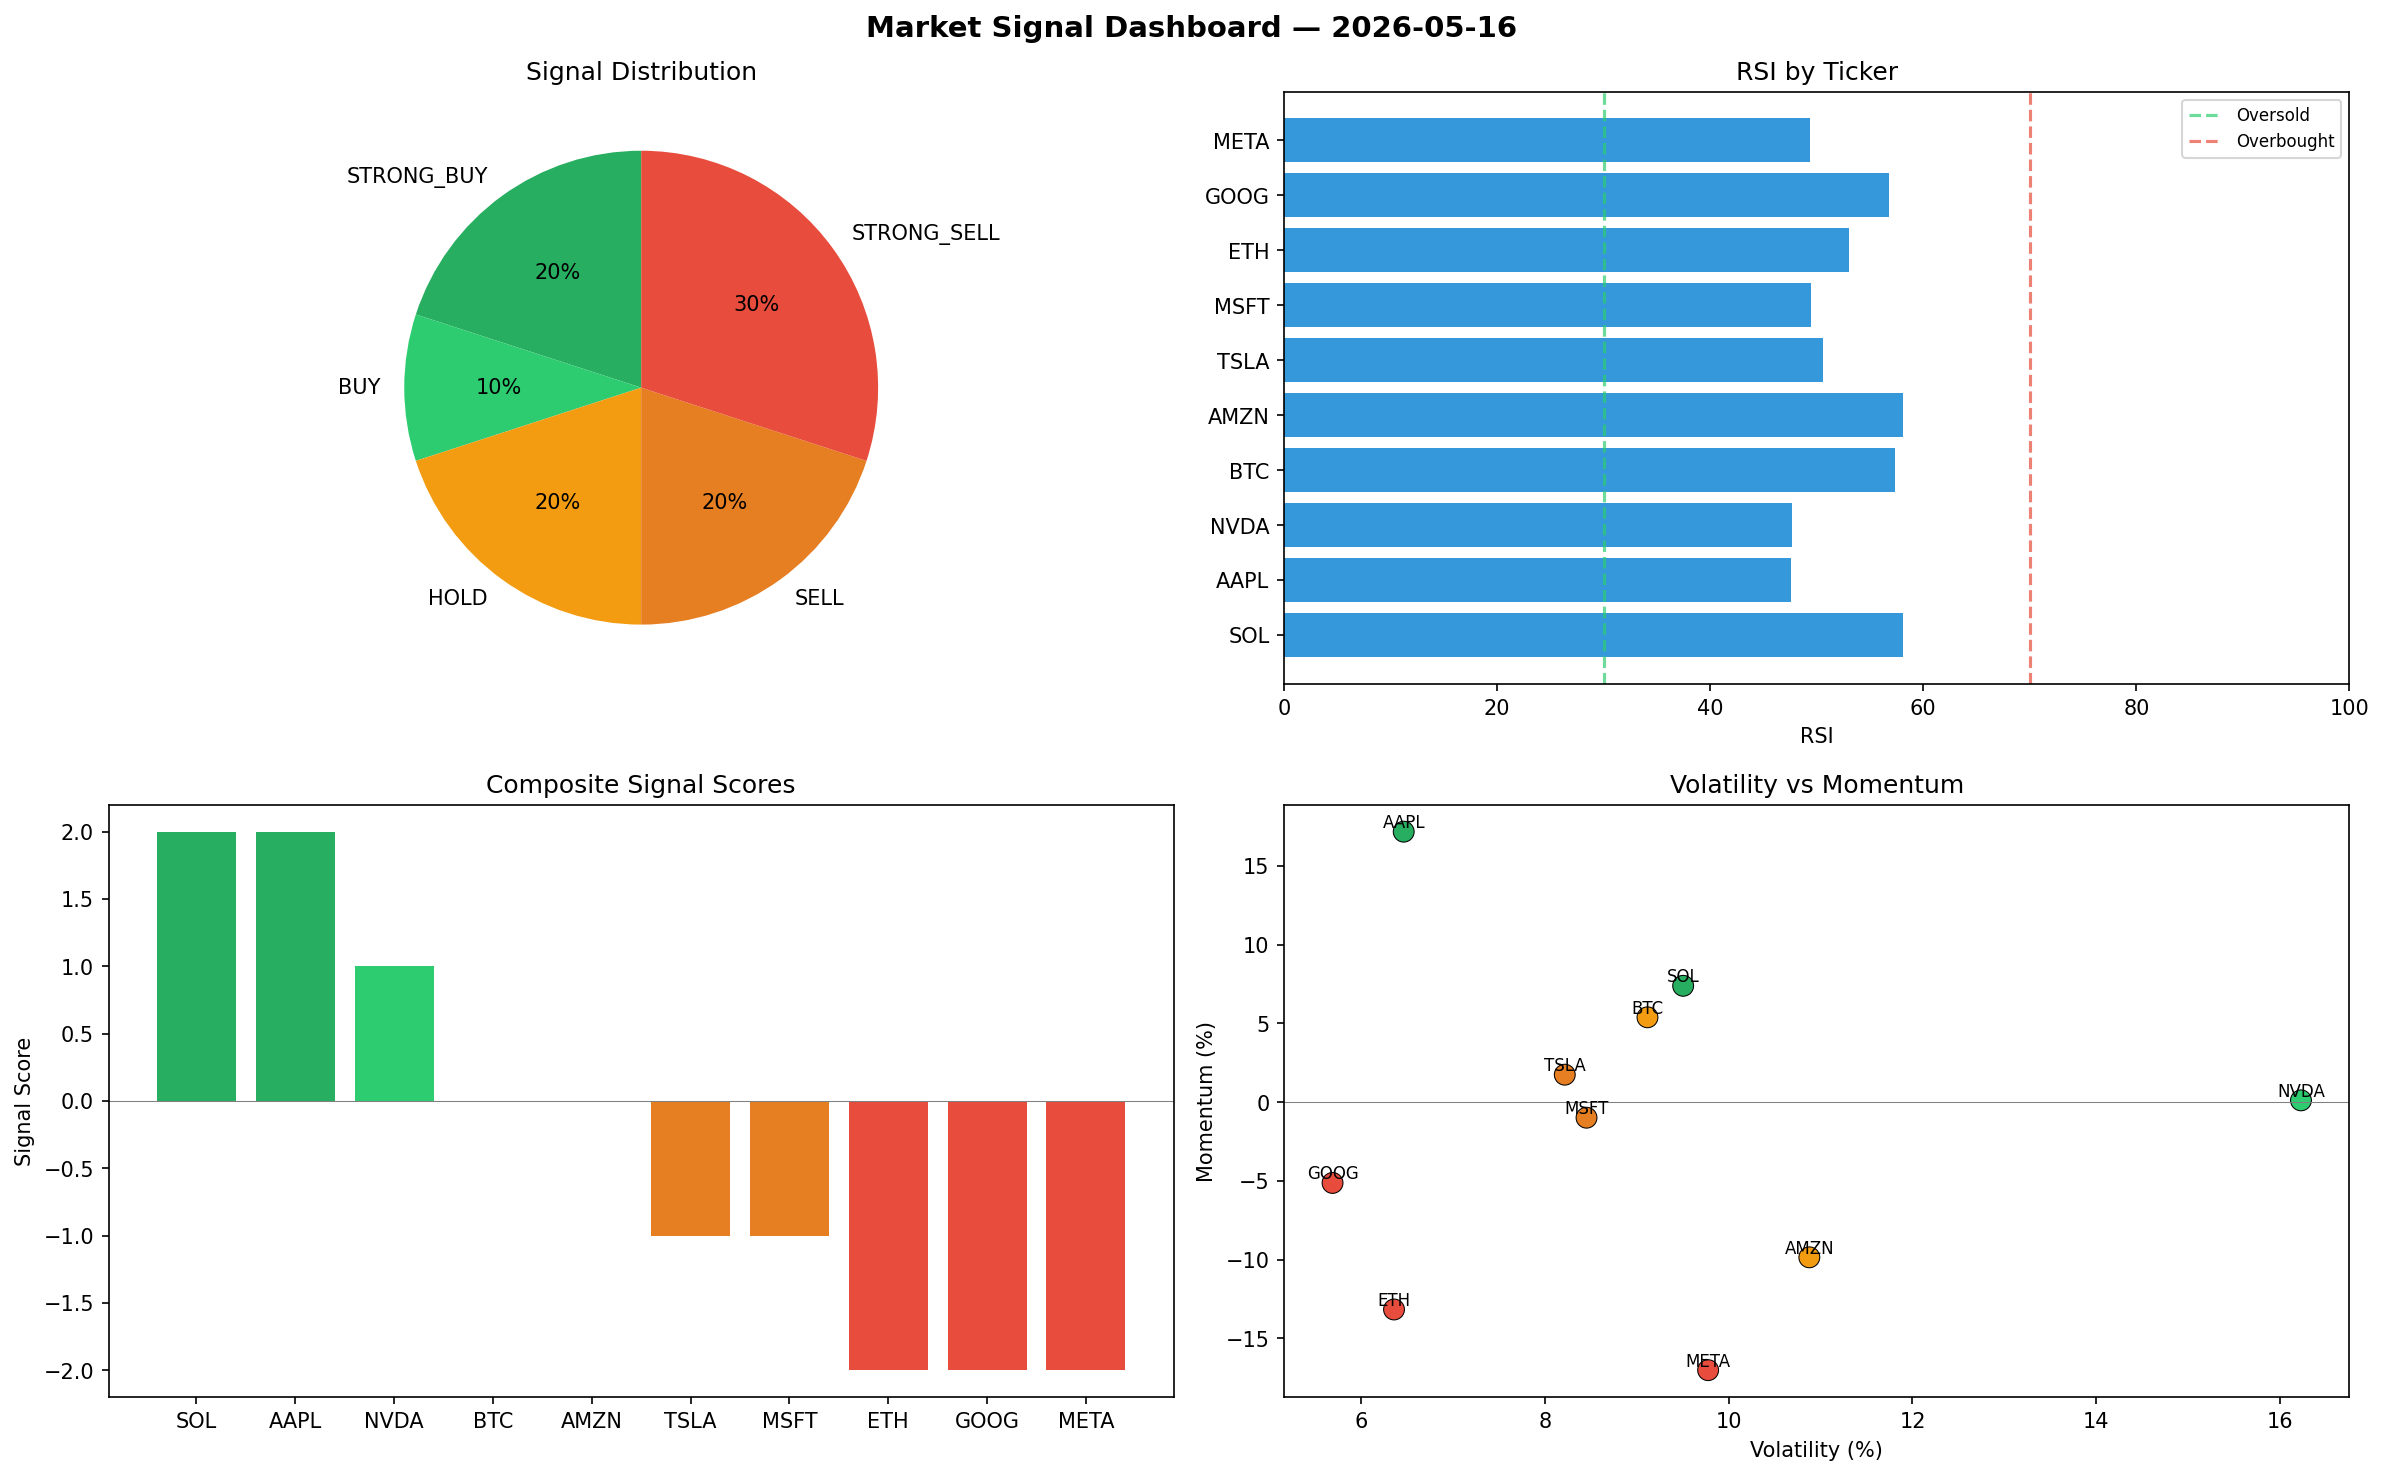
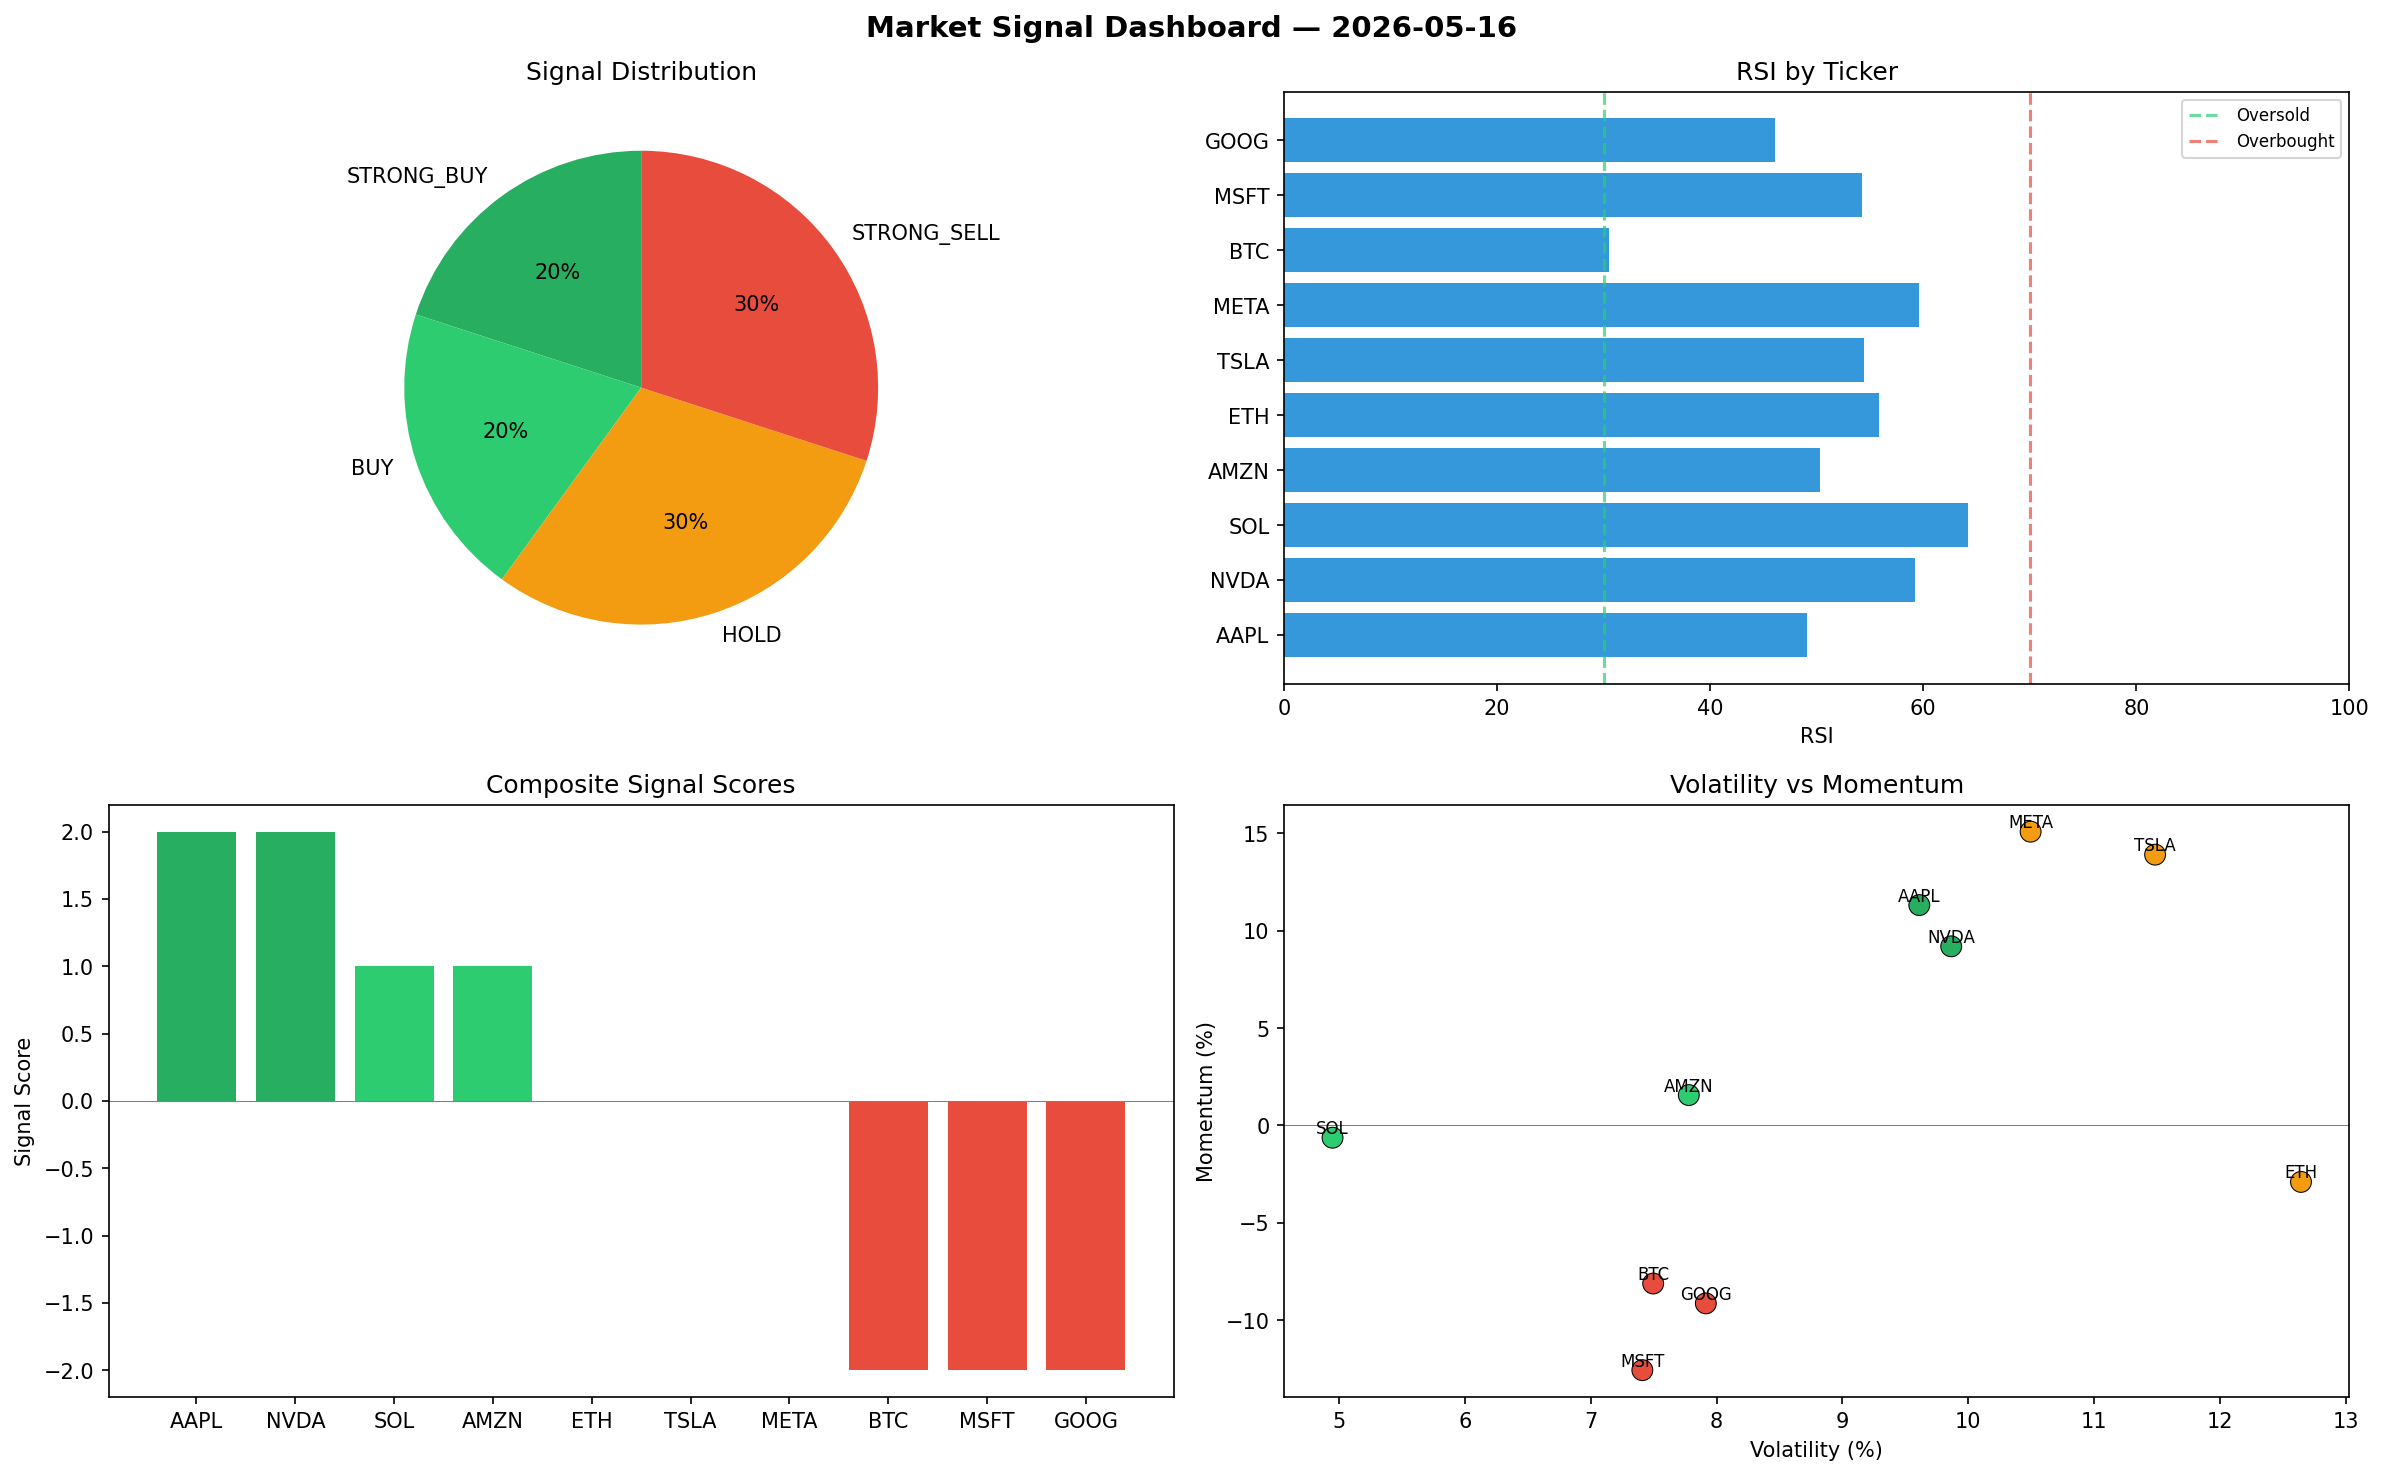
automated-bots: market signals 2026-05-16T09:54

diff --git a/logs/2026-05-16.md b/logs/2026-05-16.md
@@ -1,6 +1,6 @@
 # Market Signal Report — 2026-05-16
 
-**Run ID:** `e7578742dd` | **Buy:** 3 | **Sell:** 5 | **Hold:** 2
+**Run ID:** `91229aa6cc` | **Buy:** 4 | **Sell:** 3 | **Hold:** 3
 
 ![Dashboard](2026-05-16_dashboard.png)
 
@@ -8,28 +8,28 @@
 
 | Ticker | Price | Signal | Score | RSI | Momentum | Confidence |
 |--------|-------|--------|-------|-----|----------|------------|
-| SOL | $5111.47 | **STRONG_BUY** | 2 | 58.07 | 0.0738 | 0.5 |
-| AAPL | $2788.41 | **STRONG_BUY** | 2 | 47.62 | 0.1716 | 0.5 |
-| NVDA | $405.23 | **BUY** | 1 | 47.65 | 0.0011 | 0.25 |
-| BTC | $3952.59 | **HOLD** | 0 | 57.39 | 0.0538 | 0.0 |
-| AMZN | $1548.22 | **HOLD** | 0 | 58.05 | -0.0985 | 0.0 |
-| TSLA | $1908.45 | **SELL** | -1 | 50.63 | 0.0174 | 0.25 |
-| MSFT | $1110.9 | **SELL** | -1 | 49.5 | -0.0099 | 0.25 |
-| ETH | $330.08 | **STRONG_SELL** | -2 | 53.06 | -0.1316 | 0.5 |
-| GOOG | $819.5 | **STRONG_SELL** | -2 | 56.74 | -0.0513 | 0.5 |
-| META | $4228.76 | **STRONG_SELL** | -2 | 49.32 | -0.1701 | 0.5 |
+| AAPL | $3080.48 | **STRONG_BUY** | 2 | 49.08 | 0.1132 | 0.5 |
+| NVDA | $131.11 | **STRONG_BUY** | 2 | 59.21 | 0.092 | 0.5 |
+| SOL | $3806.72 | **BUY** | 1 | 64.19 | -0.0063 | 0.25 |
+| AMZN | $4830.41 | **BUY** | 1 | 50.32 | 0.0156 | 0.25 |
+| ETH | $4110.87 | **HOLD** | 0 | 55.86 | -0.029 | 0.0 |
+| TSLA | $1334.75 | **HOLD** | 0 | 54.42 | 0.1391 | 0.0 |
+| META | $3993.68 | **HOLD** | 0 | 59.56 | 0.1509 | 0.0 |
+| BTC | $2470.28 | **STRONG_SELL** | -2 | 30.48 | -0.0812 | 0.5 |
+| MSFT | $3819.43 | **STRONG_SELL** | -2 | 54.22 | -0.1257 | 0.5 |
+| GOOG | $2441.99 | **STRONG_SELL** | -2 | 46.05 | -0.0914 | 0.5 |
 
 ## Delta vs Yesterday
 
 | Ticker | Today | Yesterday | Price Change | Signal Changed |
 |--------|-------|-----------|-------------|----------------|
-| SOL | STRONG_BUY | STRONG_BUY | 📈 162.12% | — |
-| AAPL | STRONG_BUY | STRONG_SELL | 📈 310.56% | ⚠ YES |
-| NVDA | BUY | STRONG_BUY | 📉 -89.57% | ⚠ YES |
-| BTC | HOLD | STRONG_SELL | 📉 -9.93% | ⚠ YES |
-| AMZN | HOLD | SELL | 📉 -61.07% | ⚠ YES |
-| TSLA | SELL | STRONG_BUY | 📈 138.15% | ⚠ YES |
-| MSFT | SELL | STRONG_SELL | 📉 -70.81% | ⚠ YES |
-| ETH | STRONG_SELL | SELL | 📉 -55.35% | ⚠ YES |
-| GOOG | STRONG_SELL | STRONG_SELL | 📉 -64.22% | — |
-| META | STRONG_SELL | HOLD | 📈 60.67% | ⚠ YES |
+| AAPL | STRONG_BUY | STRONG_SELL | 📈 353.56% | ⚠ YES |
+| NVDA | STRONG_BUY | STRONG_BUY | 📉 -96.63% | — |
+| SOL | BUY | STRONG_BUY | 📈 95.21% | ⚠ YES |
+| AMZN | BUY | SELL | 📈 21.47% | ⚠ YES |
+| ETH | HOLD | SELL | 📈 456.07% | ⚠ YES |
+| TSLA | HOLD | STRONG_BUY | 📈 66.56% | ⚠ YES |
+| META | HOLD | HOLD | 📈 51.74% | — |
+| BTC | STRONG_SELL | STRONG_SELL | 📉 -43.71% | — |
+| MSFT | STRONG_SELL | STRONG_SELL | 📈 0.37% | — |
+| GOOG | STRONG_SELL | STRONG_SELL | 📈 6.63% | — |
